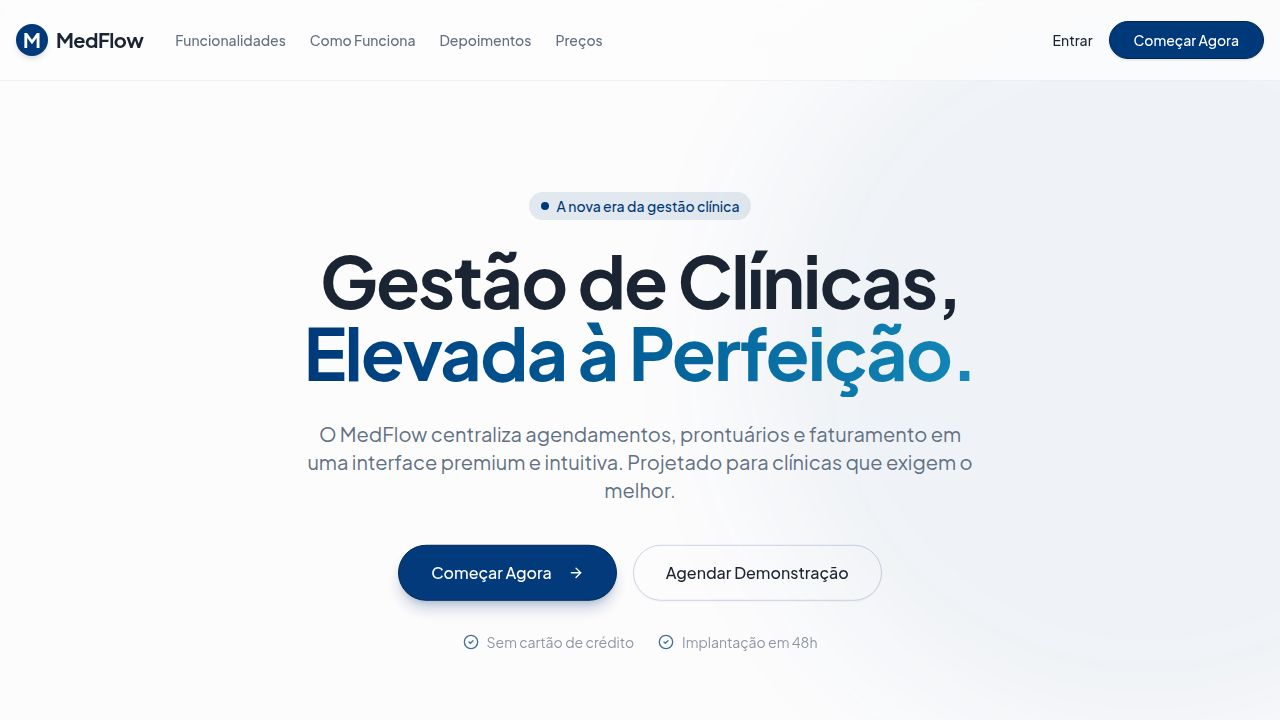
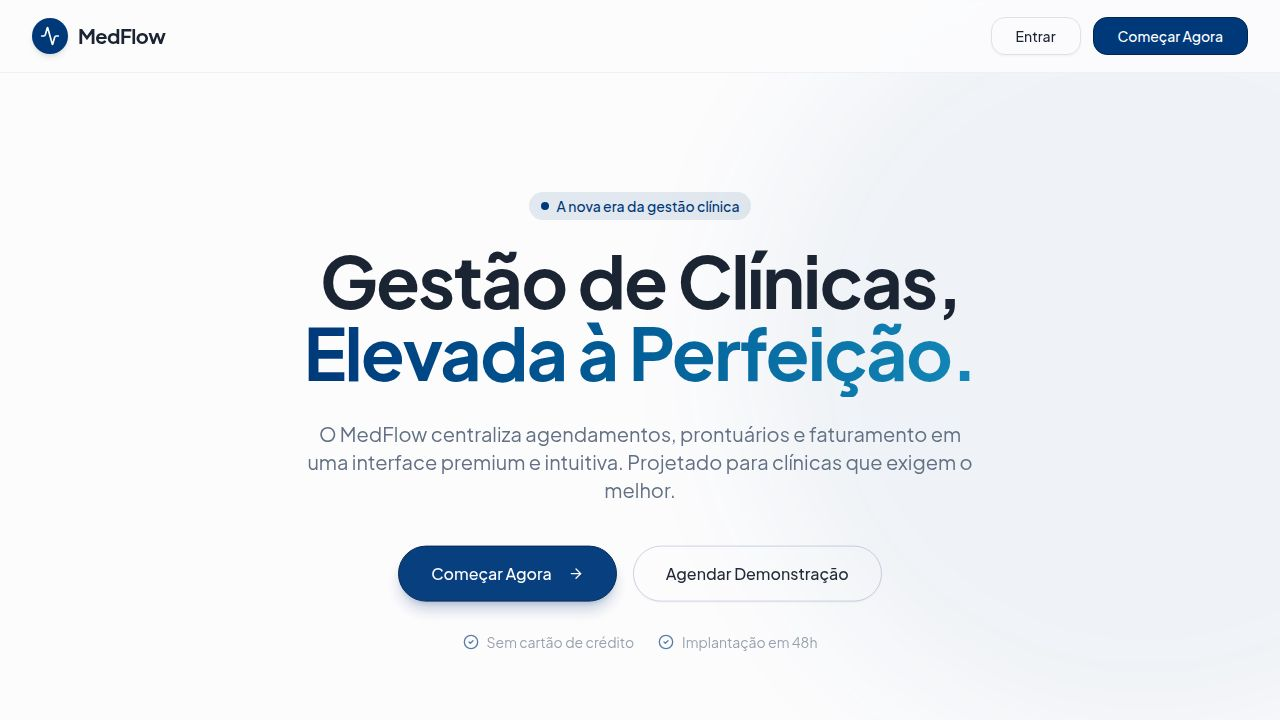
Add empty states and improve evaluation metrics display
Fix 404 error on the Avaliacoes page by registering the route and implement empty states for Agendamentos and Avaliacoes pages. Update Avaliacoes page to display 4 metric cards: average rating, total reviews, positive percentage, and negative percentage.

Replit-Commit-Author: Agent
Replit-Commit-Session-Id: 5d9f2d12-d3f2-4b82-9144-f045c035bfb8
Replit-Commit-Checkpoint-Type: full_checkpoint
Replit-Commit-Event-Id: ab3c6115-6e59-41b0-a105-3d1f9b2c36b2
Replit-Commit-Screenshot-Url: https://storage.googleapis.com/screenshot-production-us-central1/8149910f-b155-42a3-87db-60fa85102a54/5d9f2d12-d3f2-4b82-9144-f045c035bfb8/Lstti4u
Replit-Helium-Checkpoint-Created: true

diff --git a/artifacts/medflow-landing/src/pages/app/Avaliacoes.tsx b/artifacts/medflow-landing/src/pages/app/Avaliacoes.tsx
@@ -1,9 +1,29 @@
 import { Button } from "@/components/ui/button";
 import { Star, Plus } from "lucide-react";
 
+// Replace with real data when available
+const reviews: unknown[] = [];
+
+const starDistribution = [5, 4, 3, 2, 1];
+
+function StarIcon({ filled }: { filled: boolean }) {
+  return (
+    <Star
+      className={`w-4 h-4 ${filled ? "fill-amber-400 text-amber-400" : "text-muted-foreground/30"}`}
+    />
+  );
+}
+
 export default function Avaliacoes() {
+  const isEmpty = reviews.length === 0;
+  const totalReviews = reviews.length;
+  const avgRating = 0;
+  const positivePct = 0;
+  const negativePct = 0;
+
   return (
     <div className="space-y-6">
+      {/* Top */}
       <div className="flex items-center justify-between">
         <p className="text-sm text-muted-foreground">
           Acompanhe a satisfação dos pacientes com os atendimentos realizados.
@@ -13,43 +33,104 @@ export default function Avaliacoes() {
         </Button>
       </div>
 
-      {/* Summary Cards */}
-      <div className="grid grid-cols-1 sm:grid-cols-3 gap-4">
-        {[
-          { label: "Média Geral", value: "—", sub: "Sem avaliações ainda" },
-          { label: "Total de Avaliações", value: "0", sub: "Nenhuma recebida" },
-          { label: "Taxa de Resposta", value: "—", sub: "Sem dados" },
-        ].map((card, i) => (
-          <div key={i} className="bg-background rounded-2xl border border-border p-6 shadow-sm text-center">
-            <div className="flex justify-center mb-2">
-              {[1, 2, 3, 4, 5].map((s) => (
-                <Star key={s} className="w-4 h-4 text-muted-foreground/30" />
-              ))}
-            </div>
-            <p className="text-2xl font-bold text-foreground">{card.value}</p>
-            <p className="text-sm font-medium text-foreground mt-0.5">{card.label}</p>
-            <p className="text-xs text-muted-foreground mt-0.5">{card.sub}</p>
+      {/* 4 Metric Cards */}
+      <div className="grid grid-cols-1 sm:grid-cols-2 xl:grid-cols-4 gap-4">
+        {/* Nota Média */}
+        <div className="bg-background rounded-2xl border border-border p-6 shadow-sm">
+          <p className="text-sm text-muted-foreground mb-2">Nota Média</p>
+          <p className="text-3xl font-bold text-foreground mb-1">
+            {avgRating > 0 ? avgRating.toFixed(1) : "—"}
+          </p>
+          <div className="flex gap-0.5 mt-1">
+            {[1, 2, 3, 4, 5].map((s) => (
+              <StarIcon key={s} filled={s <= Math.round(avgRating)} />
+            ))}
           </div>
-        ))}
+        </div>
+
+        {/* Total de Avaliações */}
+        <div className="bg-background rounded-2xl border border-border p-6 shadow-sm">
+          <p className="text-sm text-muted-foreground mb-2">Total de Avaliações</p>
+          <p className="text-3xl font-bold text-foreground mb-1">{totalReviews}</p>
+          <p className="text-xs text-muted-foreground">
+            {totalReviews === 0 ? "Nenhuma recebida ainda" : "avaliações recebidas"}
+          </p>
+        </div>
+
+        {/* % Positivas */}
+        <div className="bg-background rounded-2xl border border-border p-6 shadow-sm">
+          <p className="text-sm text-muted-foreground mb-2">Avaliações Positivas</p>
+          <p className="text-3xl font-bold text-emerald-600 mb-1">
+            {totalReviews > 0 ? `${positivePct}%` : "—"}
+          </p>
+          <p className="text-xs text-muted-foreground">
+            {totalReviews > 0 ? "notas 4 e 5 estrelas" : "Sem dados ainda"}
+          </p>
+        </div>
+
+        {/* % Negativas */}
+        <div className="bg-background rounded-2xl border border-border p-6 shadow-sm">
+          <p className="text-sm text-muted-foreground mb-2">Avaliações Negativas</p>
+          <p className="text-3xl font-bold text-rose-500 mb-1">
+            {totalReviews > 0 ? `${negativePct}%` : "—"}
+          </p>
+          <p className="text-xs text-muted-foreground">
+            {totalReviews > 0 ? "notas 1 e 2 estrelas" : "Sem dados ainda"}
+          </p>
+        </div>
       </div>
 
-      {/* Empty State */}
-      <div className="bg-background rounded-2xl border border-border shadow-sm overflow-hidden">
-        <div className="px-6 py-4 border-b border-border">
-          <p className="text-sm font-medium text-muted-foreground">0 avaliações recebidas</p>
+      {/* Star Distribution Chart */}
+      <div className="bg-background rounded-2xl border border-border shadow-sm p-6">
+        <h3 className="font-semibold text-foreground mb-4">Distribuição por Estrelas</h3>
+        <div className="space-y-3">
+          {starDistribution.map((stars) => (
+            <div key={stars} className="flex items-center gap-3">
+              <div className="flex items-center gap-1 w-20 shrink-0">
+                {[1, 2, 3, 4, 5].map((s) => (
+                  <StarIcon key={s} filled={s <= stars} />
+                ))}
+              </div>
+              <div className="flex-1 h-2.5 bg-muted rounded-full overflow-hidden">
+                <div className="h-full bg-amber-400 rounded-full" style={{ width: "0%" }} />
+              </div>
+              <span className="text-xs text-muted-foreground w-6 text-right">0</span>
+            </div>
+          ))}
         </div>
-        <div className="flex flex-col items-center justify-center py-20 text-center">
-          <div className="w-16 h-16 rounded-2xl bg-muted flex items-center justify-center mb-4">
-            <Star className="w-8 h-8 text-muted-foreground/50" />
-          </div>
-          <h3 className="font-semibold text-foreground mb-2">Nenhuma avaliação ainda</h3>
-          <p className="text-sm text-muted-foreground max-w-xs mb-6">
-            Solicite avaliações aos seus pacientes após as consultas. O feedback ajuda a melhorar a qualidade do atendimento.
+        {isEmpty && (
+          <p className="text-xs text-muted-foreground text-center mt-4">
+            O gráfico será preenchido quando houver avaliações.
           </p>
-          <Button data-testid="button-solicitar-avaliacao-empty">
-            <Plus className="w-4 h-4 mr-2" /> Solicitar Primeira Avaliação
-          </Button>
+        )}
+      </div>
+
+      {/* Reviews Grid */}
+      <div className="bg-background rounded-2xl border border-border shadow-sm overflow-hidden">
+        <div className="px-6 py-4 border-b border-border flex items-center justify-between">
+          <p className="text-sm font-medium text-muted-foreground">
+            {totalReviews === 1 ? "1 avaliação recebida" : `${totalReviews} avaliações recebidas`}
+          </p>
         </div>
+
+        {isEmpty ? (
+          <div className="flex flex-col items-center justify-center py-20 text-center">
+            <div className="w-16 h-16 rounded-2xl bg-muted flex items-center justify-center mb-4">
+              <Star className="w-8 h-8 text-muted-foreground/50" />
+            </div>
+            <h3 className="font-semibold text-foreground mb-2">Nenhuma avaliação recebida ainda</h3>
+            <p className="text-sm text-muted-foreground max-w-xs mb-6">
+              Solicite avaliações aos seus pacientes após as consultas. O feedback ajuda a melhorar a qualidade do atendimento e atrair novos pacientes.
+            </p>
+            <Button data-testid="button-solicitar-avaliacao-empty">
+              <Plus className="w-4 h-4 mr-2" /> Solicitar Primeira Avaliação
+            </Button>
+          </div>
+        ) : (
+          <div className="grid grid-cols-1 md:grid-cols-2 gap-4 p-6">
+            {/* review cards would render here */}
+          </div>
+        )}
       </div>
     </div>
   );

diff --git a/artifacts/medflow-landing/src/pages/app/Agendamentos.tsx b/artifacts/medflow-landing/src/pages/app/Agendamentos.tsx
@@ -15,10 +15,14 @@ const hours = Array.from({ length: 11 }, (_, i) => `${String(i + 8).padStart(2, 
 const weekDays = ["Segunda", "Terça", "Quarta", "Quinta", "Sexta", "Sábado", "Domingo"];
 const filters = ["Todos", "Confirmado", "Aguardando", "Cancelado"];
 
+// Replace with real data when available
+const appointments: unknown[] = [];
+
 export default function Agendamentos() {
   const [activeFilter, setActiveFilter] = useState("Todos");
   const [dialogOpen, setDialogOpen] = useState(false);
   const [view, setView] = useState<"semana" | "dia">("semana");
+  const isEmpty = appointments.length === 0;
 
   return (
     <div className="space-y-6">
@@ -80,54 +84,65 @@ export default function Agendamentos() {
       <div className="grid grid-cols-1 xl:grid-cols-4 gap-6">
         {/* Calendar Grid */}
         <div className="xl:col-span-3 bg-background rounded-2xl border border-border shadow-sm overflow-hidden">
-          <div className="grid grid-cols-8 border-b border-border">
-            <div className="px-4 py-3 text-xs text-muted-foreground" />
-            {weekDays.map((day) => (
-              <div
-                key={day}
-                className="px-2 py-3 text-center text-xs font-medium text-muted-foreground border-l border-border"
-              >
-                {day.slice(0, 3)}
+          {isEmpty ? (
+            /* Full empty state — shown when no appointments exist */
+            <div className="flex flex-col items-center justify-center py-24 px-6 text-center">
+              <div className="w-16 h-16 rounded-2xl bg-muted flex items-center justify-center mb-4">
+                <CalendarCheck className="w-8 h-8 text-muted-foreground/50" />
               </div>
-            ))}
-          </div>
-          <div className="overflow-y-auto max-h-[480px]">
-            {hours.map((hour) => (
-              <div key={hour} className="grid grid-cols-8 border-b border-border/50 min-h-[56px]">
-                <div className="px-4 py-2 text-xs text-muted-foreground flex items-start pt-2">{hour}</div>
-                {weekDays.map((_, di) => (
-                  <div key={di} className="border-l border-border/50 p-1" />
+              <h3 className="font-semibold text-foreground mb-2">Nenhum agendamento ainda</h3>
+              <p className="text-sm text-muted-foreground max-w-xs mb-6">
+                A grade de horários aparecerá aqui quando houver consultas cadastradas. Crie o primeiro agendamento para começar.
+              </p>
+              <Button onClick={() => setDialogOpen(true)} data-testid="button-agendar-empty">
+                <Plus className="w-4 h-4 mr-2" /> Nova Consulta
+              </Button>
+            </div>
+          ) : (
+            /* Calendar grid — only shown when there are appointments */
+            <>
+              <div className="grid grid-cols-8 border-b border-border">
+                <div className="px-4 py-3 text-xs text-muted-foreground" />
+                {weekDays.map((day) => (
+                  <div
+                    key={day}
+                    className="px-2 py-3 text-center text-xs font-medium text-muted-foreground border-l border-border"
+                  >
+                    {day.slice(0, 3)}
+                  </div>
                 ))}
               </div>
-            ))}
-          </div>
-          {/* Empty State overlay */}
-          <div className="flex flex-col items-center justify-center py-12 text-center border-t border-border">
-            <CalendarCheck className="w-10 h-10 text-muted-foreground/30 mb-3" />
-            <p className="text-sm font-medium text-muted-foreground">Nenhuma consulta agendada</p>
-            <p className="text-xs text-muted-foreground mt-1 mb-4">
-              Clique em "Nova Consulta" para adicionar o primeiro agendamento.
-            </p>
-            <Button size="sm" onClick={() => setDialogOpen(true)} data-testid="button-agendar-empty">
-              <Plus className="w-4 h-4 mr-2" /> Nova Consulta
-            </Button>
-          </div>
+              <div className="overflow-y-auto max-h-[520px]">
+                {hours.map((hour) => (
+                  <div key={hour} className="grid grid-cols-8 border-b border-border/50 min-h-[56px]">
+                    <div className="px-4 py-2 text-xs text-muted-foreground flex items-start pt-2">{hour}</div>
+                    {weekDays.map((_, di) => (
+                      <div key={di} className="border-l border-border/50 p-1" />
+                    ))}
+                  </div>
+                ))}
+              </div>
+            </>
+          )}
         </div>
 
         {/* Today Sidebar */}
-        <div className="bg-background rounded-2xl border border-border shadow-sm p-5">
+        <div className="bg-background rounded-2xl border border-border shadow-sm p-5 flex flex-col">
           <h3 className="font-semibold text-foreground mb-4">Hoje</h3>
-          <div className="flex flex-col items-center justify-center py-10 text-center">
+          <div className="flex-1 flex flex-col items-center justify-center py-8 text-center">
             <CalendarCheck className="w-8 h-8 text-muted-foreground/30 mb-3" />
-            <p className="text-xs text-muted-foreground">Sem consultas hoje.</p>
+            <p className="text-sm font-medium text-muted-foreground mb-1">Nenhum agendamento</p>
+            <p className="text-xs text-muted-foreground">
+              {new Date().toLocaleDateString("pt-BR", { day: "numeric", month: "long" })}
+            </p>
           </div>
           <Button
             variant="outline"
-            className="w-full mt-2 text-sm"
+            className="w-full text-sm"
             onClick={() => setDialogOpen(true)}
             data-testid="button-add-sidebar"
           >
-            <Plus className="w-4 h-4 mr-2" /> Adicionar
+            <Plus className="w-4 h-4 mr-2" /> Nova Consulta
           </Button>
         </div>
       </div>